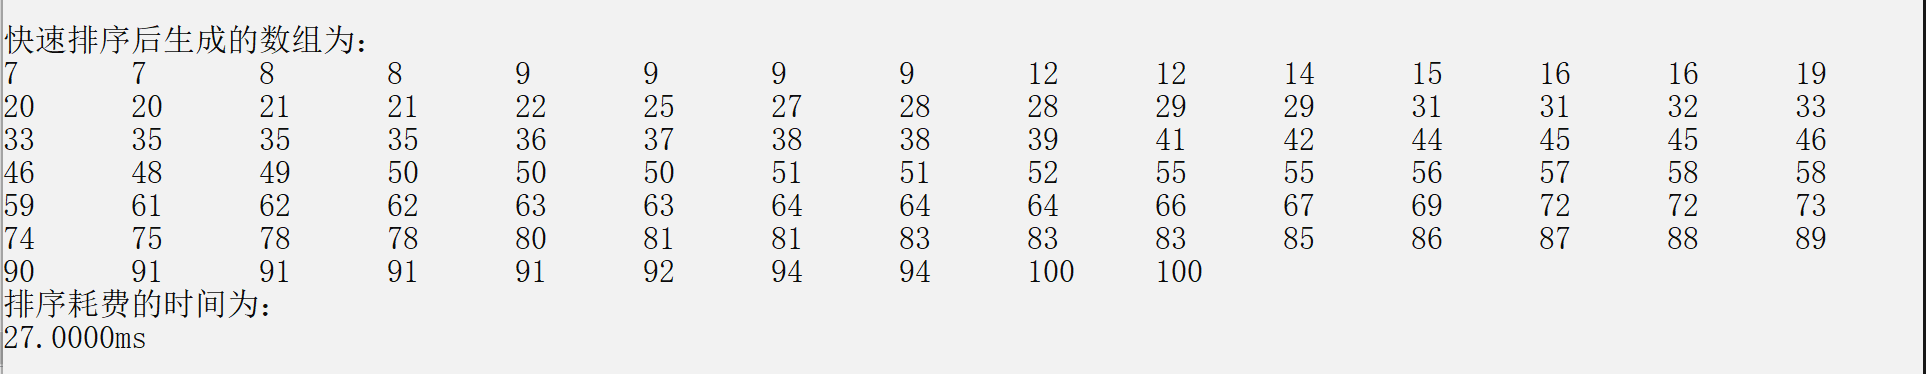
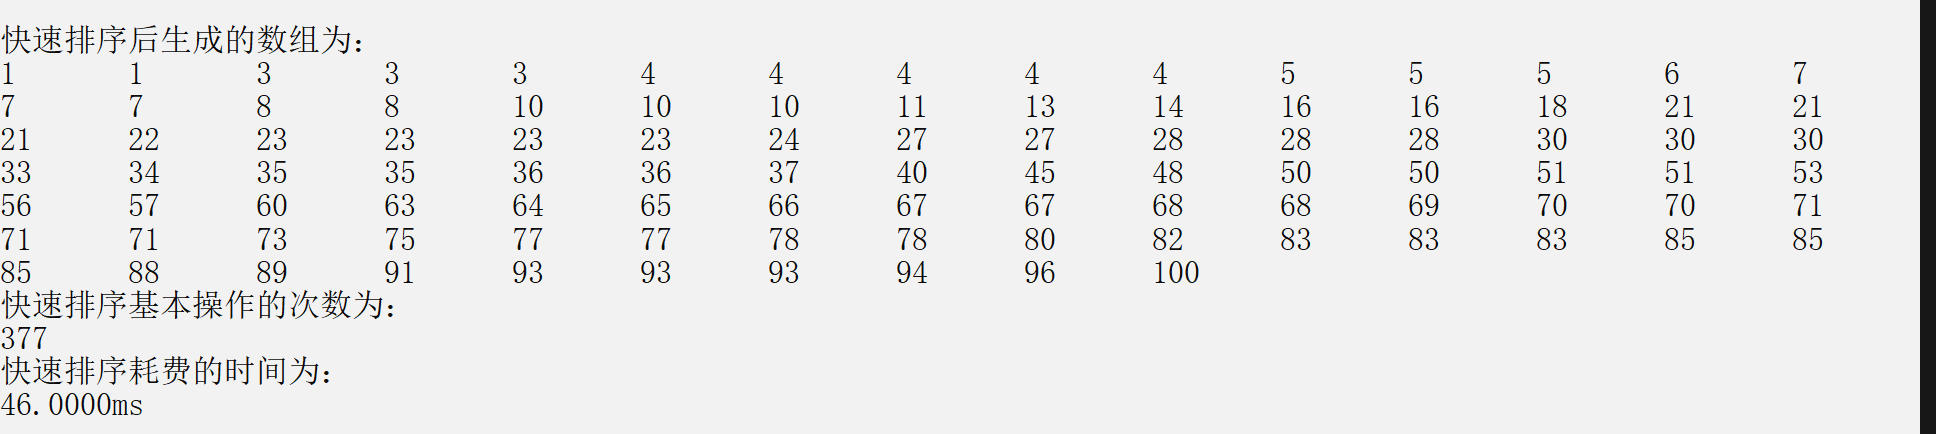
6.16

diff --git a/work_1/实验报告/README.md b/work_1/实验报告/README.md
@@ -34,11 +34,12 @@
   第一组：
   使用随机数生成方法生成包含 100 个随机数的测试数据如下：
   ![随机数据](1.png "随机数据")
-  冒泡排序算法的执行时间如下图：
+
+  冒泡排序算法的基本操作执行次数及代码执行时间如下图：
   ![冒泡排序](2.png "冒泡排序")
-  合并排序算法的执行时间如下图：
+  合并排序算法的基本操作执行次数及代码执行时间如下图：
   ![合并排序](3.png "合并排序")
-  快速排序算法的执行时间如下图：
+  快速排序算法的基本操作执行次数及代码执行时间如下图：
   ![快速排序](4.png "快速排序")
   第二组：
   使用随机数生成方法生成包含 100 个随机数的测试数据如下：
@@ -79,5 +80,5 @@
   快速排序算法的执行时间：2104ms ;
 
 - 三个算法比较操作次数增加的对比曲线图如下：
-  ![快速排序](9.png "排序图表")
+  ![排序](9.png "排序图表")
 - 渐进时间复杂度是当问题规模不断增大并趋于无穷大时算法复杂度的数量级，由图可知，在数据规模较大时，冒泡排序的所耗费的时间增量较大。
